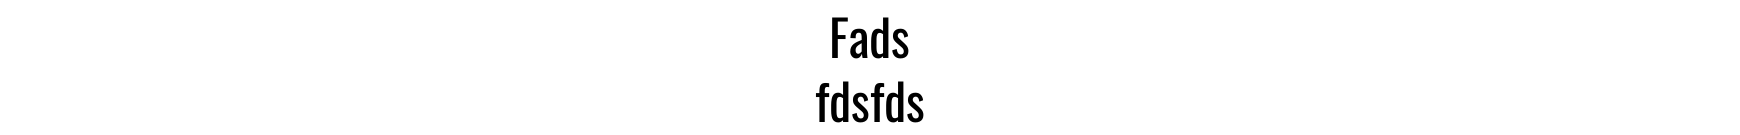
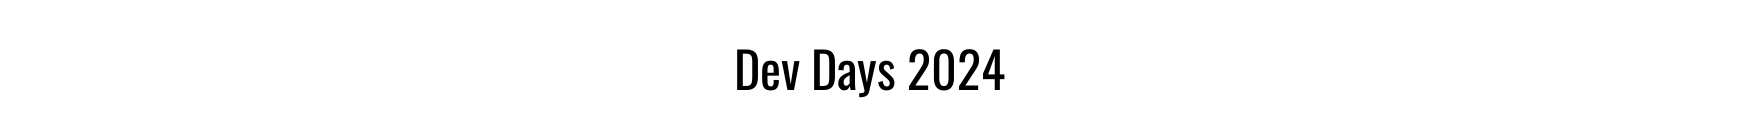
Fixing Bug - Loading of Fonts Adjusting Funciton open_settings and setting use of montage

Changed region(s): [[0.4034, 0.1185, 0.5897, 0.9185]]

diff --git a/Main.py b/Main.py
@@ -29,9 +29,11 @@ class App(cevent.CEvent):
         # Initialize Screens - Basic Functionality
         self._start_window = pgwindow.Window(self.size)                     # Welcome Screen with button to start the PhotoBox
         self._capture_window = pgwindow.Window(self.size)                   # Black-Screen on which Camera Images is overlaided
+        self._after_capture_window = pgwindow.Window(self.size)
+
         # Screens to handle displaying and usage of the images 
         self._development_window = pgwindow.Window(self.size)
-        self._after_capture_window = pgwindow.Window(self.size)             # Screen with Montage, Button to go back to start -> Displayed at self.settings["printing"]== False and self.settings["QR"]==False             
+                 
         self._after_capture_QR_window = pgwindow.Window(self.size)          # Screen with Montage, QR-Code and Button to go back to start -> Displayed at self.settings["printing"]== False and self.settings["QR"]==True
         self._after_capture_print_window = pgwindow.Window(self.size)       # Screen with Montage, Button to print and Button to go back to start -> Displayed at self.settings["printing"]==True and self.settings["QR"]==False
         self._after_capture_print_QR_window = pgwindow.Window(self.size)    # Screen with Montage, QR-Code, Button to print and Button to go back to start -> Displayed at self.settings["printing"]== True and self.settings["QR"]==True
@@ -42,21 +44,19 @@ class App(cevent.CEvent):
         # Optimizing User Experience                                        
         self._settings_window = pgwindow.Window(self.size)                  # Display for user to configure Box for the event
         self._set_montage_window = pgwindow.Window(self.size)               # Display for user to configure Montage
-        self._style1_window = pgwindow.Window(self.size)                    # Display set Montage Style -> Style 1 -> to be deleted later
-        self._style2_window = pgwindow.Window(self.size)                    # Display set Montage Style -> Style 2 -> to be deleted later
-        self._style3_window = pgwindow.Window(self.size)                    # Display set Montage Style -> Style 3 -> to be deleted later
         # Initializing Start Situation 
         self._current_window = self._start_window
         
         self.settings = {"printing":False, "Upload":True, "usb":True,
-                          "FULLSCREEN": False,
-                          "montage_style": 2,
+                         "FULLSCREEN": False,
+                         "montage_thumb_text" : "Dev Days 2024",
+                         "montage_style": 2,
                          "NC-folder":"Dev-Days-2024", 
                          "nc-url":"https://nc-8872520695452827614.nextcloud-ionos.com/",
                          "nc_user":"boxjoni",
                          "nc_pw":"FUUhJw0NTnXw"}  # all settings should reside in this dict
         self.NextCloudClient = PhotoBooth_Dev_Wind.NextCloudClient(working_dictonary,self.settings["NC-folder"],self.settings["nc-url"],self.settings["nc_user"],self.settings["nc_pw"])
-        self.booth = PhotoBooth_Dev_Wind.PhotoBooth(working_dictonary,self.settings["montage_style"])
+        self.booth = PhotoBooth_Dev_Wind.PhotoBooth(working_dictonary,self.settings["montage_style"], self.settings["montage_thumb_text"])
         self.last_montage_path = "temps/collage.jpg"
         self.last_QR_path ="temps/QR.jpg"
         
@@ -375,9 +375,7 @@ class App(cevent.CEvent):
                                                          lambda: self.set_font("Great")), 
                                                          "Great")
         self._thumb_buttons.append("Great")
-        self.set_use_montage(self.settings["printing"], self.settings["Upload"])
-        self.set_font("Oswald")
-        self._current_window = self._start_window     
+   
     #def on_event(self, event):
     #     if event.type == pygame.QUIT:
     #         self._running = False
@@ -481,18 +479,6 @@ class App(cevent.CEvent):
     def set_use_montage(self, b_printing, b_upload):
         self.settings["printing"]=b_printing
         self.settings["Upload"]=b_upload
-        self._settings_window.buttons["pT_dF"].update_image("Images/settings/NA_pT_dF.png")
-        self._settings_window.buttons["pT_dT"].update_image("Images/settings/NA_pT_dT.png")
-        self._settings_window.buttons["pF_dT"].update_image("Images/settings/NA_pF_dT.png")
-        self._settings_window.buttons["pF_dF"].update_image("Images/settings/NA_pF_dF.png")
-        if self.settings["printing"]== True and self.settings["Upload"]==False:
-            self._settings_window.buttons["pT_dF"].update_image("Images/settings/A_pT_dF.png")
-        if self.settings["printing"]== True and self.settings["Upload"]==True:
-            self._settings_window.buttons["pT_dT"].update_image("Images/settings/A_pT_dT.png")
-        if self.settings["printing"]== False and self.settings["Upload"]==True:
-            self._settings_window.buttons["pF_dT"].update_image("Images/settings/A_pF_dT.png")
-        if self.settings["printing"]== False and self.settings["Upload"]==False:
-            self._settings_window.buttons["pF_dF"].update_image("Images/settings/A_pF_dF.png")
         self.open_settings()
 
     def save_to_usb(self,status):
@@ -591,7 +577,7 @@ class App(cevent.CEvent):
             if self.NextCloudClient.last_upload_succesfull:
                 self.NextCloudClient.create_qr(link,timestamp)
                 if self.settings["printing"]==True:
-                    
+
                     self._after_capture_print_QR_window.images["Montage"].update(self.last_pic_path)
                     self._after_capture_print_QR_window.images["QR"].update(self.NextCloudClient.current_qr_path)
                     self._current_window = self._after_capture_print_QR_window
@@ -617,6 +603,19 @@ class App(cevent.CEvent):
         self._current_window = self._start_window
     
     def open_settings(self):
+        # Update Buttons to decide how to provide montage  
+        self._settings_window.buttons["pT_dF"].update_image("Images/settings/NA_pT_dF.png")
+        self._settings_window.buttons["pT_dT"].update_image("Images/settings/NA_pT_dT.png")
+        self._settings_window.buttons["pF_dT"].update_image("Images/settings/NA_pF_dT.png")
+        self._settings_window.buttons["pF_dF"].update_image("Images/settings/NA_pF_dF.png")
+        if self.settings["printing"]== True and self.settings["Upload"]==False:
+            self._settings_window.buttons["pT_dF"].update_image("Images/settings/A_pT_dF.png")
+        if self.settings["printing"]== True and self.settings["Upload"]==True:
+            self._settings_window.buttons["pT_dT"].update_image("Images/settings/A_pT_dT.png")
+        if self.settings["printing"]== False and self.settings["Upload"]==True:
+            self._settings_window.buttons["pF_dT"].update_image("Images/settings/A_pF_dT.png")
+        if self.settings["printing"]== False and self.settings["Upload"]==False:
+            self._settings_window.buttons["pF_dF"].update_image("Images/settings/A_pF_dF.png")
         ## Update Speicherplatz 
         self._settings_window.texts["Speicherplatz"].update_text("- aktueller Restspeicherplatz: {} Gb.".format(str(round(self.get_free_system_space(),2))))
         # Set Visibility to False for all elements related to printing and nc
@@ -650,7 +649,7 @@ class App(cevent.CEvent):
             for text in self._nc_texts:
                 self._settings_window.texts[text].visibility=True
             self._settings_window.inputboxes["Input NC-Folder"].visibility = True
-
+        
         self._current_window= self._settings_window
         self.on_render()
     def update_NC_folder(self):

diff --git a/PhotoBooth_Dev_Wind.py b/PhotoBooth_Dev_Wind.py
@@ -130,7 +130,7 @@ class NextCloudClient:
                              
 class PhotoBooth:
     
-    def __init__(self,base_path, montage_style):
+    def __init__(self,base_path, montage_style, thumb_text):
         self.base_path = base_path
         self.thumb_4x1_path= os.path.join(self.base_path,'Thumbnails','4x1_Montage','thumb.png')
         self.thumb_4x1_size= (600, 135) 
@@ -143,8 +143,9 @@ class PhotoBooth:
                             'Lora':os.path.join('Lora','Lora-VariableFont_wght.ttf'),
                             'Linux':os.path.join('linux_biolinum','LinBiolinum_R.ttf'),
                             'Great':os.path.join('Great_Vibes','GreatVibes-Regular.ttf')}
-        self.thumb_font = os.path.join(self.base_path,self.thumb_fonts["Oswald"])
+        self.thumb_font = os.path.join(self.base_path,'Fonts',self.thumb_fonts["Oswald"])
         self.thumb_fontsize = 50 
+        self.create_thumb(thumb_text,self.thumb_size)
         self.thumb_img = Image.open(self.thumb_path) # Open Image for the thumbnail
         self.thumb_img.resize((self.thumb_size[0], self.thumb_size[1])) # Image for the thumbnail 
         #Print Management and Log
@@ -339,6 +340,7 @@ class PhotoBooth:
         os.system(line)  # -o media=Custom.7.4x21.0cm
         self.save_print_count(self.print_count+1)
     def create_thumb(self,text,size,anchor="mm",align="center"):
+        self.thumb_text = text
         font =  self.thumb_font
         fontsize = self.thumb_fontsize
         self.thumb_img= Image.new(mode="RGBA",size=size,color="white")
